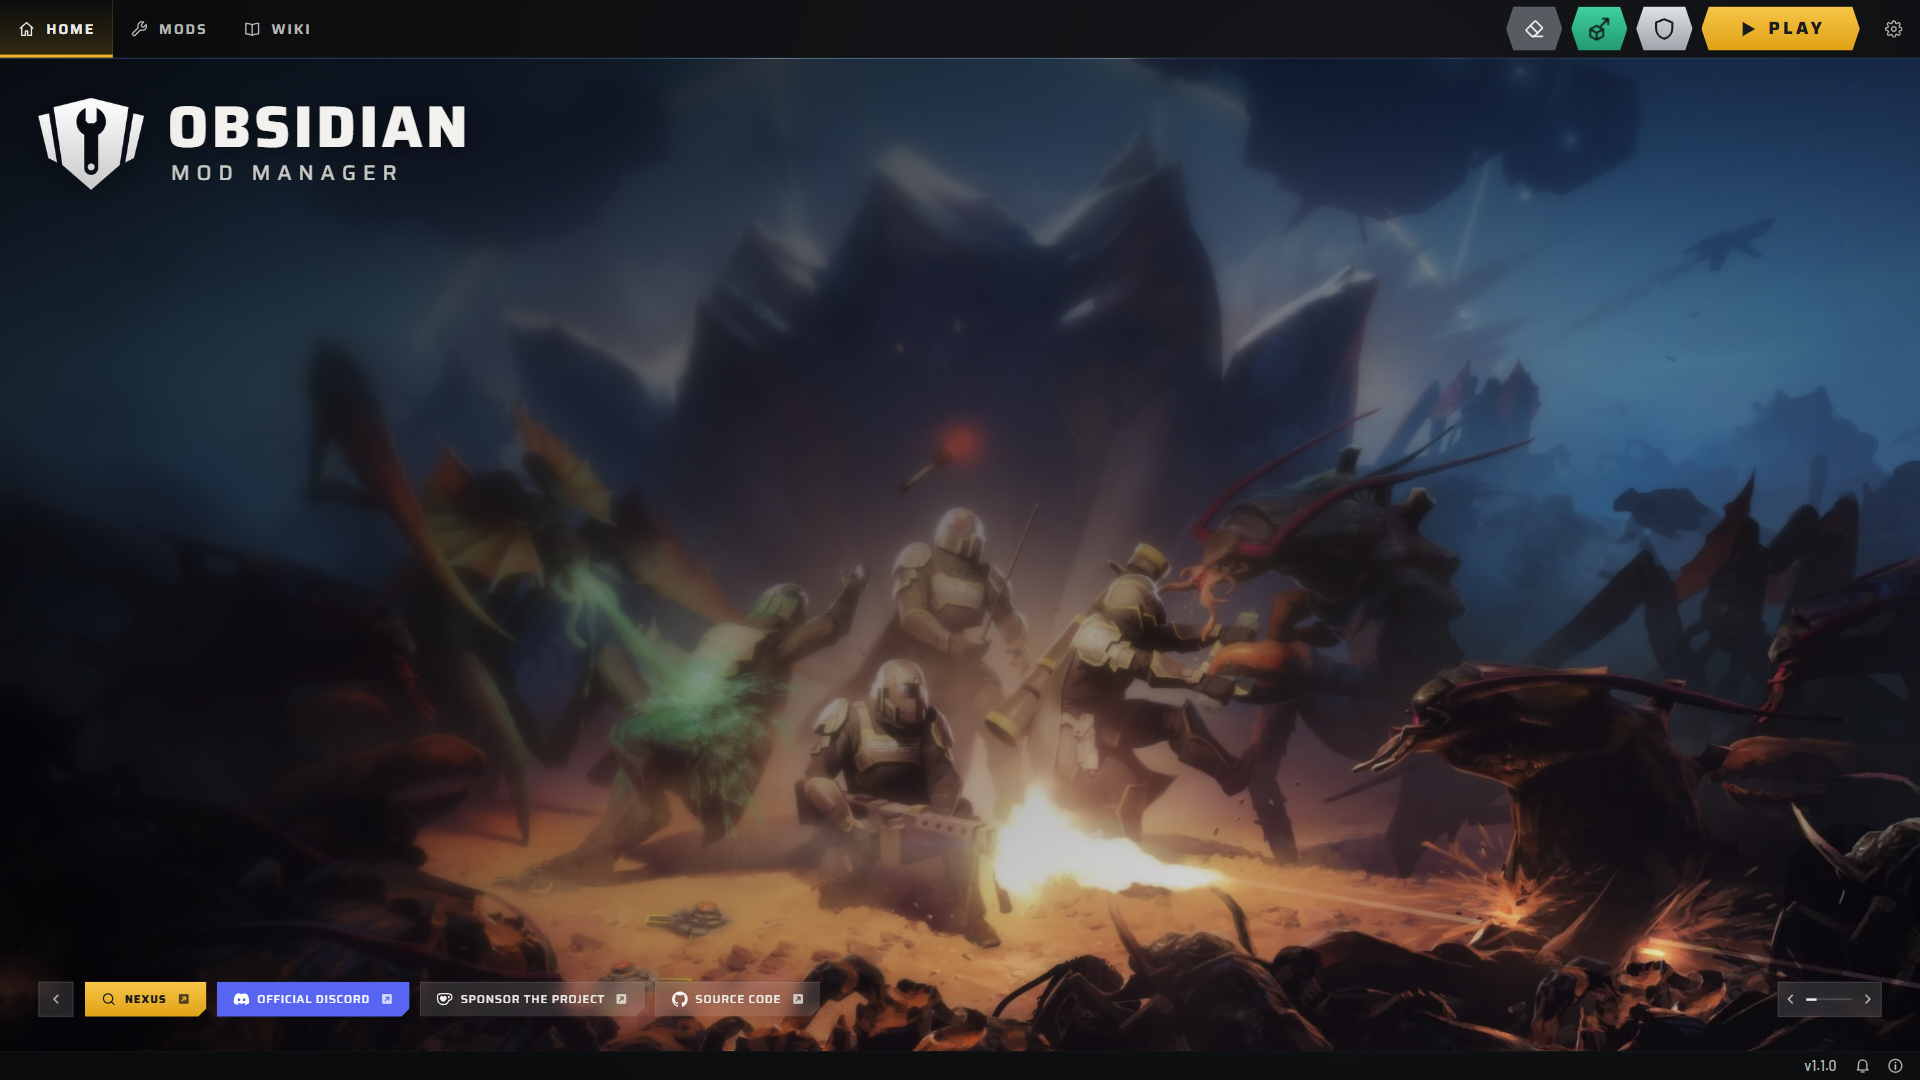
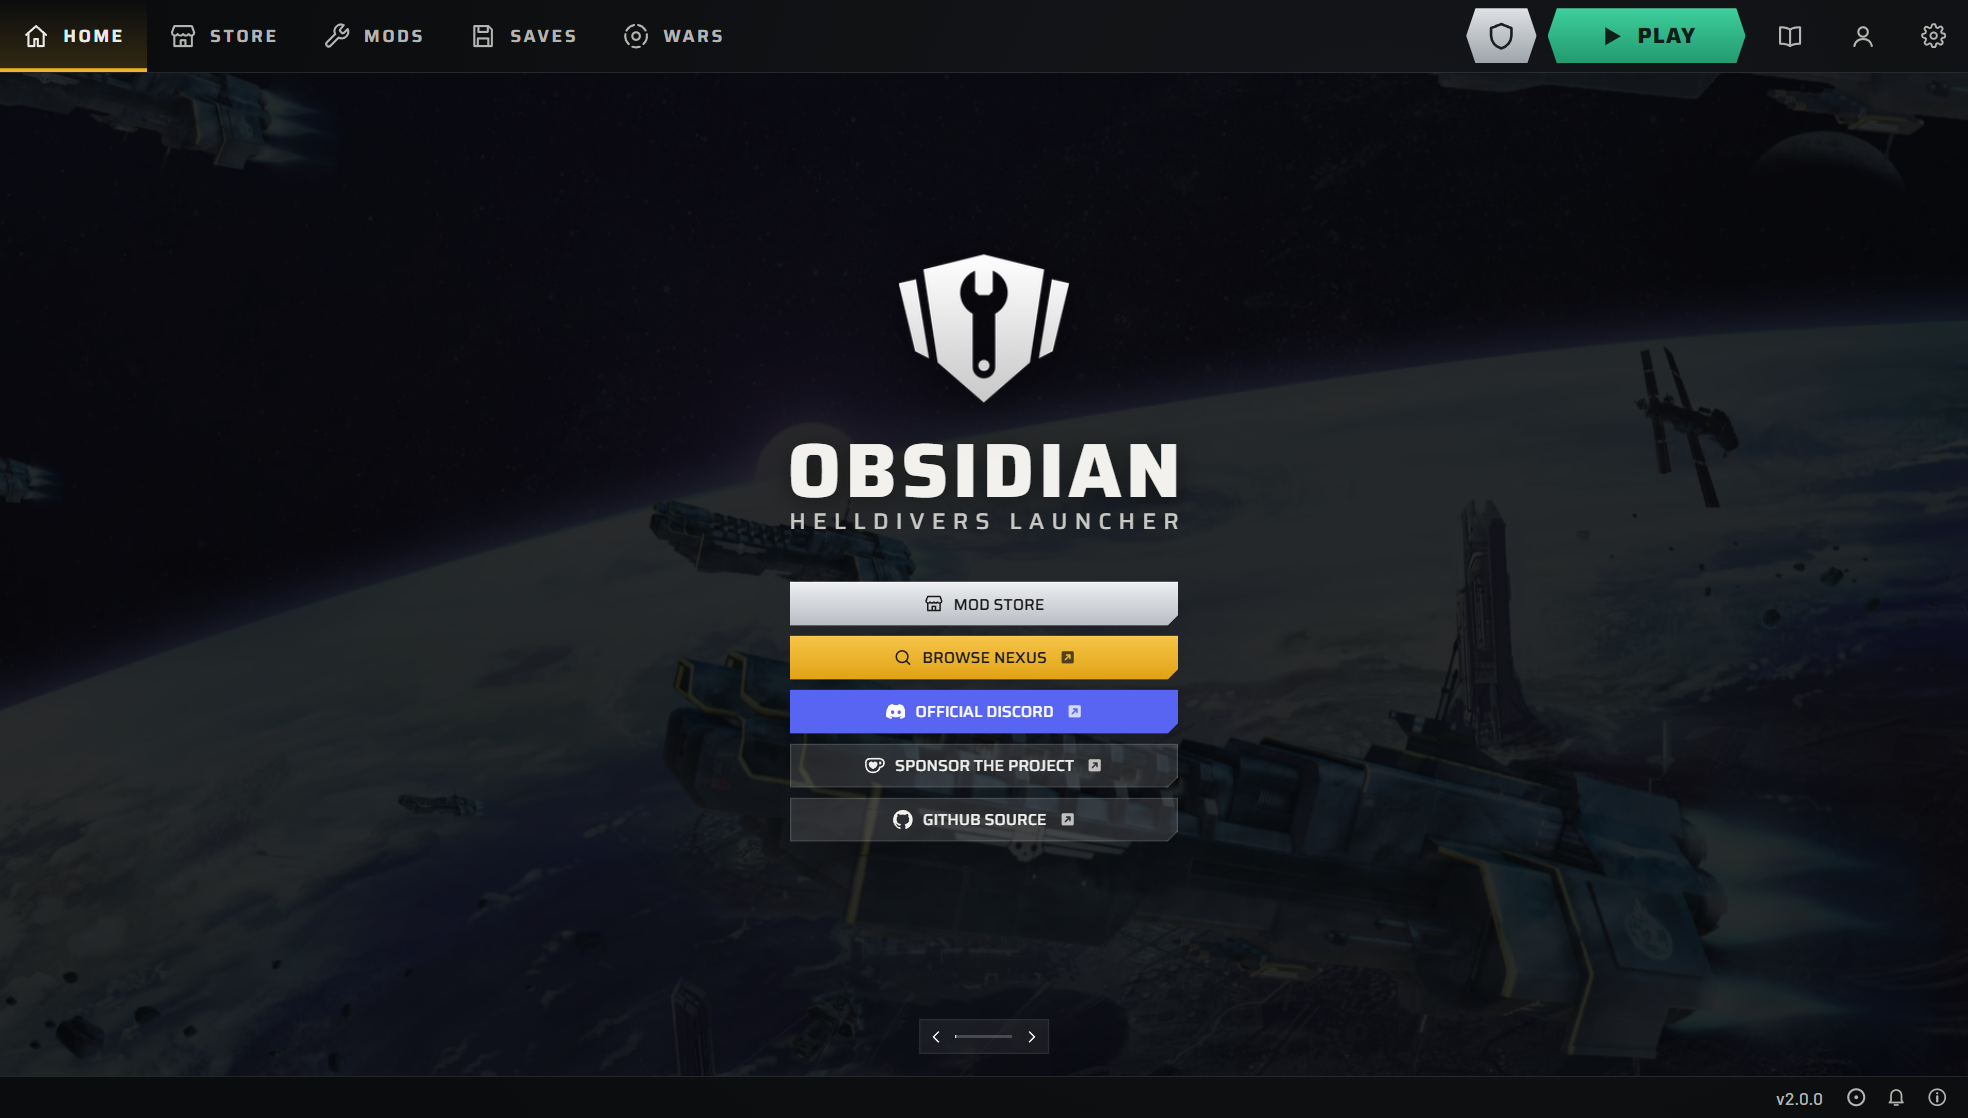
README for 2.0.0: one Home picture and a list of the tabs
The tabs and what each one does replace the Mods and Wiki pictures. Four
languages, Linux in the badge, the Store in place of Restore Obsidian Kit,
and Report Issue and Problem report where they are now.

diff --git a/README.md b/README.md
@@ -10,11 +10,11 @@
 <p align="center">Launcher and mod loader for HELLDIVERS (2015).</p>
 
 <p align="center">
-  <img alt="Windows 10 and 11" src="https://img.shields.io/badge/Windows-10%20%7C%2011-2f7bf5?style=flat-square">
+  <img alt="Windows 10 and 11, Linux in beta" src="https://img.shields.io/badge/Windows%2010%20%7C%2011-Linux%20beta-2f7bf5?style=flat-square">
   <img alt="Mods for HELLDIVERS (2015)" src="https://img.shields.io/badge/mods%20for-HELLDIVERS%20%282015%29-ffe81f?style=flat-square">
   <img alt="License: Apache 2.0" src="https://img.shields.io/badge/license-Apache%202.0-3a3a3a?style=flat-square">
   <!-- the count of LANGUAGES in app/src/i18n.ts, listed under Supported Languages -->
-  <a href="#-supported-languages"><img alt="3 languages" src="https://img.shields.io/badge/languages-3-3a3a3a?style=flat-square"></a>
+  <a href="#-supported-languages"><img alt="4 languages" src="https://img.shields.io/badge/languages-4-3a3a3a?style=flat-square"></a>
   <a href="https://github.com/Alomare/ObsidianLauncher/releases/latest"><img alt="Latest release" src="https://img.shields.io/github/v/release/Alomare/ObsidianLauncher?style=flat-square&label=release&color=3a3a3a&include_prereleases"></a>
 </p>
 
@@ -37,44 +37,43 @@
 <br>
 
 <p align="center">
-  <img src="assets/readme/home.png" alt="The Home tab over HELLDIVERS art of four Helldivers fighting Bugs, with the logo and name at the top left, links to Nexus, the Discord, sponsoring and the source code at the bottom left, and controls for the picture before or after at the bottom right" width="100%">
+  <img src="assets/readme/home.png" alt="The Home tab: the Obsidian logo and the words Helldivers Launcher in the middle, over a picture of a destroyer above a planet, with buttons for the Mod Store, Nexus, the official Discord, sponsoring and the GitHub source below, and the Home, Store, Mods, Saves and Wars tabs at the top" width="100%">
 </p>
 
 <br>
 
 ## Features
 
-### 🧩 Mods
-
-The mod library. Turn mods on and off, drag them into the load order, sort them into folders, and change options and keys for each mod. Conflicts show which mods change the same thing, and profiles keep separate sets of mods and settings. Mods that name a GitHub repository update from inside the app, Older mods that replace whole game files or come as `.patch` files import like any other, and mods that add new weapons or units work side by side.
-
-<img src="assets/readme/mods.png" alt="The Mods tab: the Obsidian Kit and a Favorites folder of four mods from Nexus, each mod with a switch, a place in the load order, a version and a scope diamond, a warning on two that change the same file, and the options of Obsidian Quality of Life on the right" width="100%">
-
-### 📖 Wiki
-
-Guides inside the app, for players and for mod authors. They cover adding mods, load order, profiles, the multiplayer rules and troubleshooting, then go from a first mod to the loader API.
-
-<img src="assets/readme/wiki.png" alt="The Wiki tab: search and the guides by group on the left, How Obsidian Works open in the middle, and the headings of the page on the right" width="100%">
+- **Home**: links to the Mod Store, Nexus Mods, the Discord and the source code, over HELLDIVERS art that changes every 30 seconds.
+- **Store**: the Obsidian Kit and mods from GitHub, with scope filters, sorting, search and stars. Each mod has a page with the description, the versions, the options and what it requires, and **Install** adds the mods it requires too. **Submit Mod** proposes a GitHub repository for the Store.
+- **Mods**: the library. Turn mods on and off, drag them into the load order, sort them into folders and change the options and keys of each mod. Conflicts show which mods change the same thing, profiles keep separate sets of mods and settings, and mods from GitHub update or switch to any release from the **Versions** tab. Older mods that replace whole game files or come as `.patch` files import like any other. **Deploy** and **Purge** are here.
+- **Saves**: the Official saves and Sandbox saves of the Steam account. A Sandbox plays on a separate save, in a separate matchmaking pool and with no war reporting. The save editor has the rank ladder of all 50 insignia, an **Arsenal** board of every item and the DLC owned on Steam.
+- **Wars**: Obsidian Commander hosts custom Galactic Wars on your PC, with the war screens and a galactic map. Other players join over LAN, or over the internet with an address and an invite code. Nothing reaches the official war.
+- **Wiki**: guides for players, mod authors and war hosts, with search, in every language of the app.
+- **Account**: sign in with GitHub to star mods, report a problem from the Store page of a mod with the Obsidian report attached, and read the replies. **Sync** carries profiles and appearance settings to another PC.
+- **Settings**: the game folder and build check, patches from other tools, language, updates, controller, save backups, the problem report, and colors, size and animations.
+- **Play** starts the game through Steam, on the official war or a custom one, with the save you pick. **Guardrails**, beside it, block the session mods of other players in public lobbies, keep Steam achievements from unlocking, freeze the account progression and hide client mods from the lobby list.
+- Every screen works with a controller: the left stick moves a cursor, and the button pictures match Xbox, PlayStation, Nintendo and Steam Deck controllers. Keys of mods can be mouse buttons or controller buttons, with tap, double tap, long press and release.
 
 ### 🎁 Obsidian Kit
 
-Three mods come with Obsidian, in the Obsidian Kit folder. Obsidian Patches starts on with most of the fixes enabled, and the other two stay off until you turn them on. They're mods like any other: each has its own repository and updates from GitHub, and you can move or delete them. **Restore Obsidian Kit** in Settings puts everything back.
+Three mods come with Obsidian, in the Obsidian Kit folder. Obsidian Patches starts on, and the other two stay off until you turn them on. They're mods like any other: each has its own repository and updates from GitHub, and you can move or delete them. The **Store** installs them again.
 
 #### [Obsidian Patches](https://github.com/Alomare/ObsidianPatches)
 
-Skips the intro, the login screen, war briefs and planet scanning, removes the black bars on screens wider than 16:9, and can speed up or skip the results screens after a mission. It can also keep the aim cursor visible, make the minimap stay open with one press, and fix two animation faults of the game: weapon recoil lost after a stratagem throw, and a stuck upper body when sprinting out of a dive. Each fix is an option.
+Removes the black bars on wide screens, skips the intro, the login screen and the planet scans, speeds up the mission end, pauses the game in solo missions, and fixes the recoil and sprint animations. Each fix is an option.
 
 #### [Obsidian Trainer](https://github.com/Alomare/ObsidianTrainer)
 
-An in-game window, opened with F6, for your character, weapons, stratagems, enemies, missions and game values. It works with the mouse or the keys, and you can move and resize it. It doesn't change XP or rank, doesn't unlock paid DLC and doesn't touch the Galactic War. It's a session mod, so it follows the same multiplayer rules as any other.
+An in-game menu, opened with F6, for the character, weapons, stratagems, enemies, missions and game data. Missions add nothing to the save while the Trainer is on, it stays out of the Galactic War, and it offers only the base game and owned DLC. It's a session mod, so it follows the same multiplayer rules as any other.
 
 #### [Obsidian API](https://github.com/Alomare/ObsidianAPI)
 
-A library other mods can build on. It turns on with the Trainer.
+A library other mods build on. It turns on with any mod that needs it.
 
 ### 🌐 Supported Languages
 
-English, Portuguese (Brazil) and Simplified Chinese, for the window, the messages and the Wiki. **Language** in Settings picks one, and until then Obsidian follows the language of Windows.
+English, Portuguese (Brazil), Russian and Simplified Chinese, for the window, the messages and the Wiki. **App language** in Settings picks one, and until then Obsidian follows the language of the system.
 
 <br>
 
@@ -94,11 +93,11 @@ You need Windows 10 or 11, or Linux ([beta](#linux-beta)), and HELLDIVERS instal
 
 1. Download Obsidian from [Releases](https://github.com/Alomare/ObsidianLauncher/releases/latest) and run it. The installer isn't code-signed yet, so Windows may say it protected your PC: choose **More info**, then **Run anyway**.
 2. Start Obsidian. It finds the game through Steam. If it can't, pick the game folder in Settings.
-3. On the Mods tab, press the green **+**, or drop a `.zip` or a folder on the list. [Nexus Mods](https://www.nexusmods.com/games/helldivers) has mods to try.
+3. Install mods from the **Store** tab. For a mod from somewhere else, such as [Nexus Mods](https://www.nexusmods.com/games/helldivers), press **Add** on the Mods tab, or drop a `.zip` or a folder on the list.
 4. Turn on the mods you want. When two change the same thing, the later one in the list wins.
-5. Press **Deploy**, then **Play**, which starts the game through Steam.
+5. Press **Deploy** at the top right of the Mods tab, then **Play**, which starts the game through Steam.
 
-To go back to vanilla, close the game and press **Purge**. Your library and profiles stay as they are. Do this before you uninstall Obsidian too, as the patches stay in the game folder until something removes them.
+To go back to vanilla, close the game and press **Purge**, beside **Deploy**. Your library and profiles stay as they are. Do this before you uninstall Obsidian too, as the patches stay in the game folder until something removes them.
 
 | Download | What it is |
 |---|---|
@@ -163,7 +162,7 @@ obsidian-cli commander ...                   the Commander package, hosting, and
 
 Ask on the [Discord](https://dsc.gg/hd1modding) how to do something, or show what you made. Refer to the in-app Wiki before doing so.
 
-To report a bug or suggest an idea, open an [issue](https://github.com/Alomare/ObsidianLauncher/issues/new). For a bug, say what you did and what happened. **Copy report** in Settings, under Data, gives you the versions, the mods that were on and the end of the game log, without your Windows account name.
+To report a bug or suggest an idea, open an [issue](https://github.com/Alomare/ObsidianLauncher/issues/new), or press **Report Issue** in the status bar of Obsidian. For a bug, say what you did and what happened. **Copy report** in Settings, under Problem report, gives you the versions, the mods that were on and the end of the game log, without your Windows account name.
 
 Obsidian is 100% free, no caveats. If you'd like to support it, buy me a [Ko-fi](https://ko-fi.com/alomare)!
 
